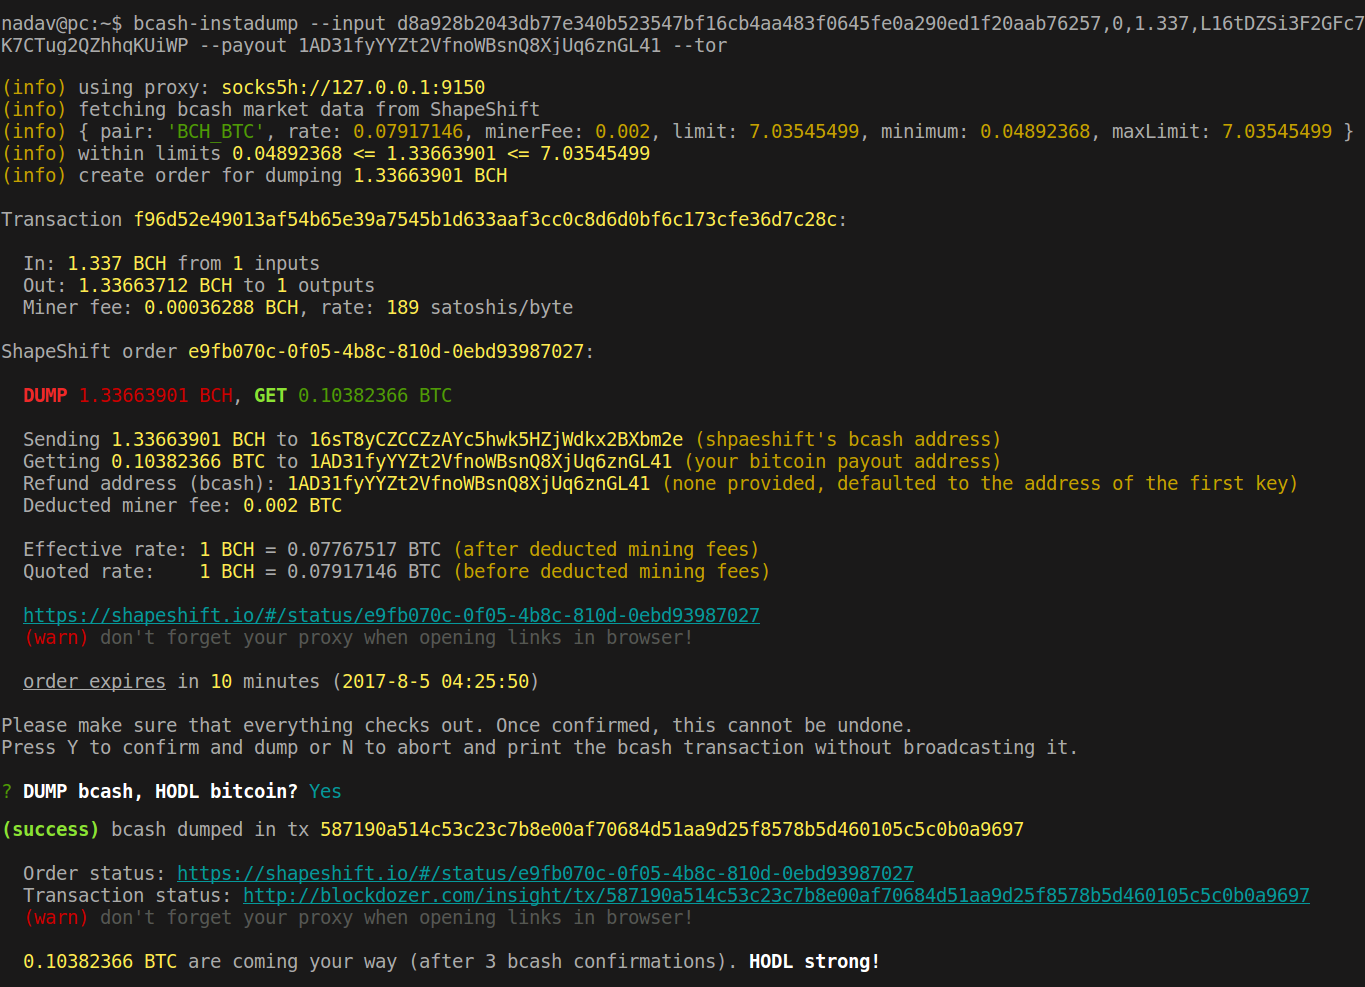
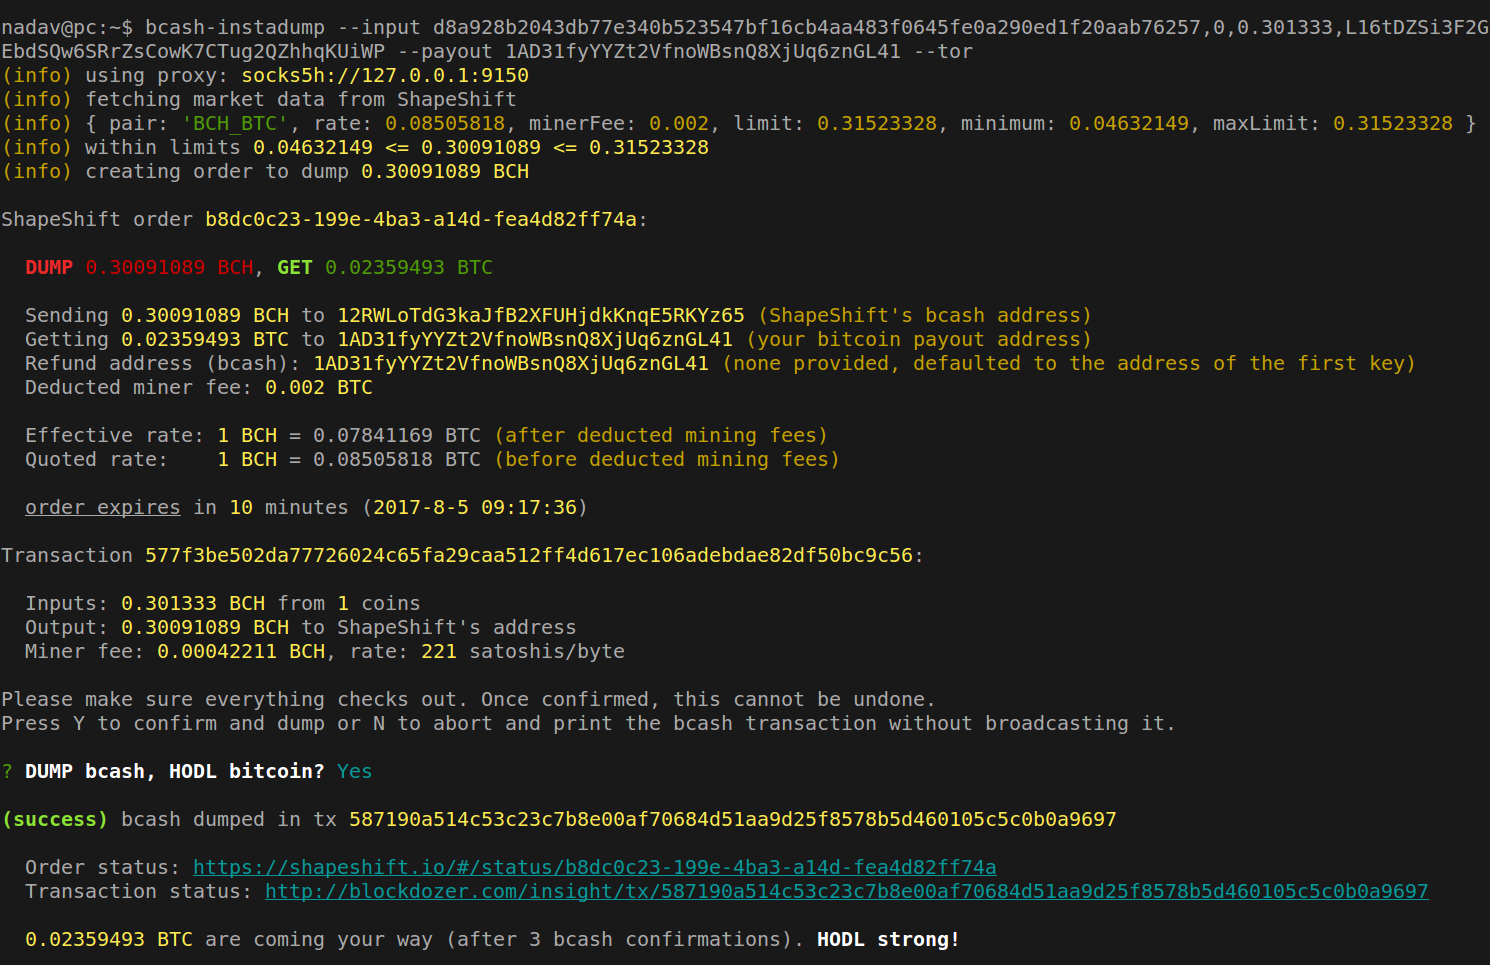
update CLI and README

diff --git a/cli/bcash-instadump.js b/cli/bcash-instadump.js
@@ -50,14 +50,14 @@ const shapeshift = ShapeShift({ proxy: args.proxy, noreferral: args.noreferral }
     , refund     = args.refund || txTmp.view.getCoin(txTmp.inputs[0]).getAddress().toString() // @XXX could be extracted directly from args, but we already have a tx here
 
 info(args.noproxy ? 'not using a proxy' : 'using proxy: '+C.yellowBright(args.proxy))
-info(`fetching bcash market data from ShapeShift`)
+info('fetching market data from ShapeShift')
 
 shapeshift.marketinfo(pair)
   .then(market => (info(util.inspect(market, { colors: true }).replace(/\n /g,'')), market))
   .then(market => verifyLimits(market, bch_sell))
   .then(market => info('within limits', C.yellowBright(market.minimum, '<=', bch_sell, '<=', market.limit)))
 
-  .then(_      => info('creating order for dumping', C.yellowBright(bch_sell, 'BCH')))
+  .then(_      => info('creating order to dump', C.yellowBright(bch_sell, 'BCH')))
   .then(_      => shapeshift.shift(pair, bch_sell, refund, args.payout))
   .then(order  => makeVerifyTx(order)
     .then(tx   => Electrum(args.electrum, args.proxy).broadcast(tx.toRaw().toString('hex')))
@@ -78,26 +78,25 @@ const makeVerifyTx = order => {
 
   if (!args.crazyfee) checkFee(tx)
 
-  console.log('\nTransaction', C.yellowBright(tx.txid())+':\n')
-  console.log('  In:', C.yellowBright(formatSat(tx.getInputValue()), 'BCH'), 'from', C.yellowBright(tx.inputs.length), 'inputs')
-  console.log('  Out:', C.yellowBright(formatSat(tx.getOutputValue()), 'BCH'), 'to', C.yellowBright(tx.outputs.length), 'outputs')
-  console.log('  Miner fee:', C.yellowBright(formatSat(tx.getFee()), 'BCH')+',', 'rate:', C.yellowBright(tx.getRate(tx.view)/1000|0), 'satoshis/byte')
-  if (tx.inputs.length > 1) console.log(' ', C.red('(warn)'), C.gray('merging multiple inputs together could harm your privacy. See README.md for more details.'))
-
   console.log('\nShapeShift order', C.yellowBright(order.orderId)+':\n')
   console.log('  '+C.red.bold('DUMP'), C.red(formatNum(bch_sell, true), 'BCH')+',', C.green.bold('GET'), C.green(formatNum(btc_buy, true), 'BTC'))
-  console.log('\n  Sending', C.yellowBright(formatNum(bch_sell, true), 'BCH'), 'to', C.yellowBright(order.deposit), C.yellow('(shpaeshift\'s bcash address)'))
+  console.log('\n  Sending', C.yellowBright(formatNum(bch_sell, true), 'BCH'), 'to', C.yellowBright(order.deposit), C.yellow('(ShapeShift\'s bcash address)'))
   console.log('  Getting', C.yellowBright(formatNum(order.withdrawalAmount, true), 'BTC'), 'to', C.yellowBright(order.withdrawal), C.yellow('(your bitcoin payout address)'))
   console.log('  Refund address (bcash):', C.yellowBright(order.returnAddress), (!args.refund ? C.yellow('(none provided, defaulted to the address of the first key)') : ''))
   console.log('  Deducted miner fee:', C.yellowBright(order.minerFee, 'BTC'))
   console.log('\n  Effective rate:', C.yellowBright('1 BCH'), '=', formatNum(btc_buy/bch_sell), 'BTC', C.yellow('(after deducted mining fees)'))
   console.log('  Quoted rate:   ', C.yellowBright('1 BCH'), '=', formatNum(order.quotedRate), 'BTC', C.yellow('(before deducted mining fees)'))
-  console.log('\n  ' + C.cyan.underline(order.url), args.noproxy ? '' : '\n  '+C.red('(warn)'), C.gray('don\'t forget your proxy when opening links in browser!'))
+  console.log('\n  ' + C.cyan.underline(order.url), args.noproxy ? '' : '\n  '+C.red('(warn)'), C.gray('don\'t forget your proxy when opening links in browser'))
   console.log('\n  ' + C.underline('order expires'), 'in', C.yellowBright(Math.ceil((order.expiration-Date.now())/60000)), 'minutes'
             , '('+C.yellowBright(formatDate(order.expiration))+')')
 
+  console.log('\nTransaction', C.yellowBright(tx.txid())+':\n')
+  console.log('  Inputs:', C.yellowBright(formatSat(tx.getInputValue()), 'BCH'), 'from', C.yellowBright(tx.inputs.length), 'coins')
+  console.log('  Output:', C.yellowBright(formatSat(tx.getOutputValue()), 'BCH'), 'to ShapeShift\'s address')
+  console.log('  Miner fee:', C.yellowBright(formatSat(tx.getFee()), 'BCH')+',', 'rate:', C.yellowBright(tx.getRate(tx.view)/1000|0), 'satoshis/byte')
+  if (tx.inputs.length > 1) console.log(' ', C.red('(warn)'), C.gray('merging multiple inputs together could harm your privacy. See README.md for more details.'))
 
-  console.log('\nPlease make sure that everything checks out. Once confirmed, this cannot be undone.')
+  console.log('\nPlease make sure everything checks out. Once confirmed, this cannot be undone.')
   console.log('Press Y to confirm and dump or N to abort and print the bcash transaction without broadcasting it.\n')
 
   return confirm('DUMP bcash, HODL bitcoin?')
@@ -122,7 +121,7 @@ const printSuccess = (order, txid) => {
   console.log('\n'+C.green.bold('(success)'), 'bcash dumped in tx', C.yellowBright(txid)+'\n')
   console.log('  Order status:', C.cyan.underline(order.url))
   console.log('  Transaction status:', C.cyan.underline(txUrl(txid)))
-  args.noproxy || console.log('  ' + C.red('(warn)'), C.gray('don\'t forget your proxy when opening links in browser!'))
+  args.noproxy || console.log('  ' + C.red('(warn)'), C.gray('don\'t forget your proxy when opening links in browser'))
   console.log('\n  '+C.yellowBright(order.withdrawalAmount, 'BTC'), 'are coming your way (after 3 bcash confirmations).', C.bold('HODL strong!'))
   console.log('\nFound this tool useful? Tips are appreciated.\n\n    '+C.yellowBright('1HNDUy34hrqoTEChCZZjb6vWAU9APAKG78')+'\n')
 }

diff --git a/README.md b/README.md
@@ -29,7 +29,7 @@ THE SOFTWARE IS PROVIDED "AS IS", WITHOUT WARRANTY OF ANY KIND. USE AT YOUR OWK 
 
 *Requires nodejs 7.6.0 or newer.*
 
-The quick, unsafe way:
+The quick, less safe way:
 
     $ npm install -g bcash-instadump
 
@@ -58,7 +58,7 @@ and broadcasted to the bcash network using an
 [Electrum bcash server](https://github.com/shesek/bcash-instadump/blob/master/electrum-servers.json).
 
 You can specify `--input` multiple times, or specify a CSV file instead with `--inputs utxos.csv`.
-All the inputs will be joined together in a single transaction (see "*Privacy Considerations*" below).
+All the inputs will be joined together in a single transaction (see "*Privacy considerations*" below).
 Only `p2pkh` scripts are currently supported.
 
 You can set your bcash refund address with `--refund <address>`
@@ -85,7 +85,7 @@ Use at your own risk.
 
 Screenshot of `bcash-instadump` in action:
 
-![Screenshot](https://raw.githubusercontent.com/shesek/bcash-instadump/master/screenshot.png?1)
+![Screenshot](https://raw.githubusercontent.com/shesek/bcash-instadump/master/screenshot.png?n)
 
 ----
 
@@ -106,7 +106,7 @@ Use `--broadcast` to broadcast the transaction via an Electrum bcash server
 (also see `bcash-broadcast` if you already have a raw transaction ready).
 
 Use `--proxy [socks4a|socks5h]://user:pass@host:port` or `--tor` to connect to the Electrum server over a proxy,
-or `--noproxy` to connect without one (see "*Privacy Considerations*" below).
+or `--noproxy` to connect without one (see "*Privacy considerations*" below).
 
 You can configure a custom Electrum bcash server using `--electrum [tls|tcp]://host:port`.
 If not provided, one is chosen at random (from `electrum-servers.json`).
@@ -122,7 +122,7 @@ See `bcash-tx --help` for the full list of options.
 Get the unspent bcash outputs for the provided address(es) from the Electrum bcash servers,
 and print them as CSV (`txid,vout,amount,address` format).
 
-This will leak information to the Electrum bcash servers (see "*Privacy Considerations*" below).
+This will leak information to the Electrum bcash servers (see "*Privacy considerations*" below).
 
 The `--(no)proxy`, `--tor` and `--electrum` options are the same as for `bcash-tx`.
 
@@ -154,7 +154,7 @@ See `bcash-broadcast --help` for the full list of options.
 
 3. Profit! `$ bcash-instadump --inputs utxos.csv --payout 1BtcAddrGimmeRogersCoins`
 
-    (WARNING: will merge the all the outputs together in a single transaction, see "*Privacy Considerations*" below)
+    (WARNING: will merge the all the outputs together in a single transaction, see "*Privacy considerations*" below)
 
 ### Extracting unspent outputs and keys
 
@@ -198,7 +198,7 @@ satoshi@cold:~$ node /media/usb/bcash-tx.js --inputs utxo.csv --output 1myBcashA
 satoshi@hot:~$ bcash-broadcast --tor `cat /media/usb/signed.tx`
 ```
 
-### Privacy Considerations
+### Privacy considerations
 
 **Leaking data to the public blockchain**
 
